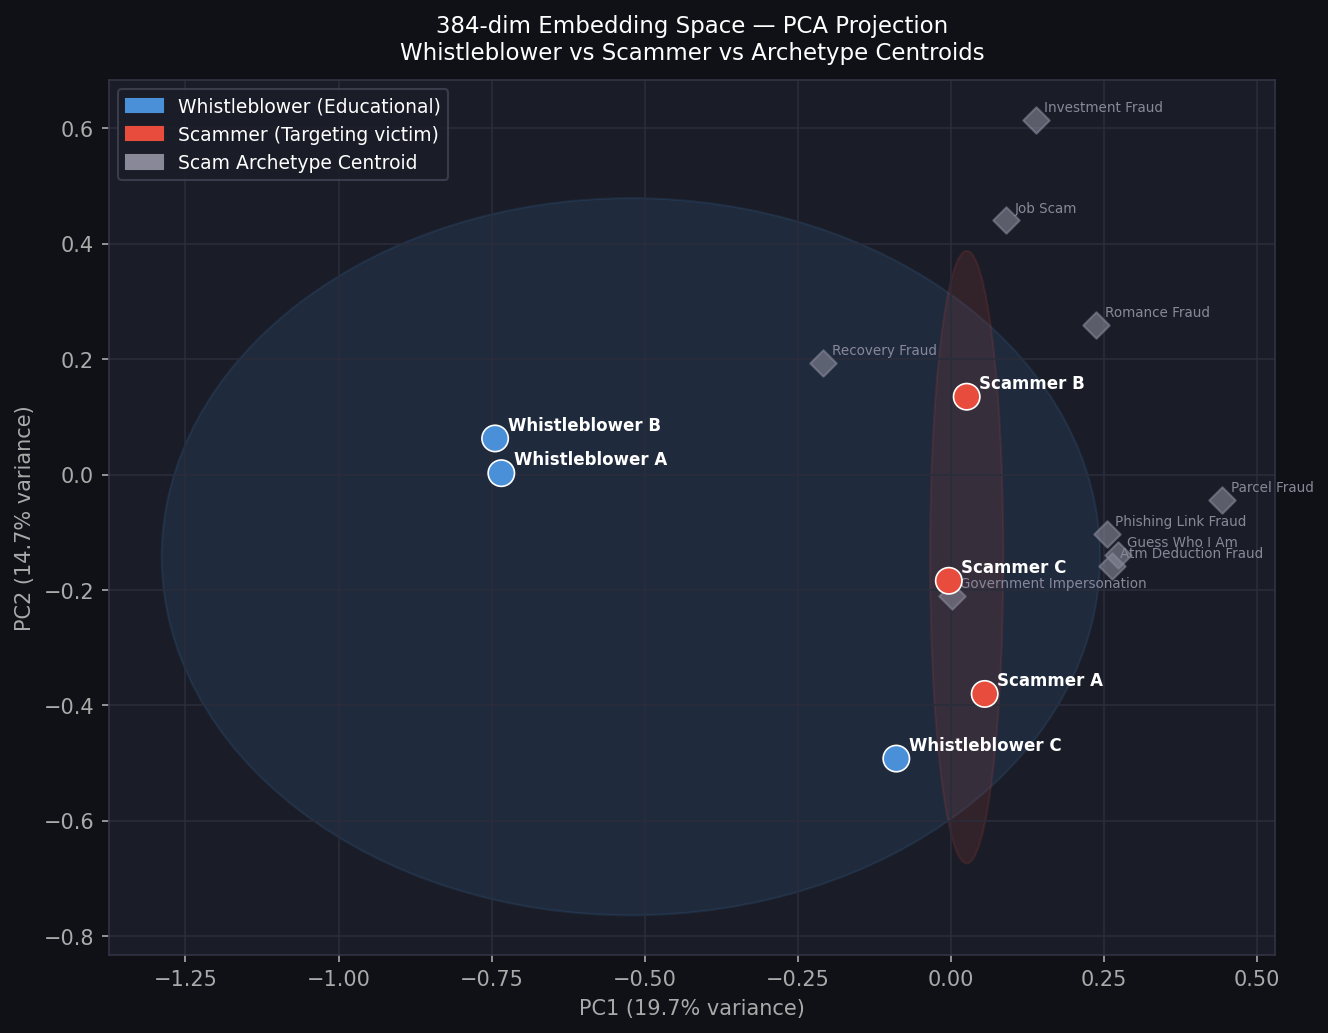
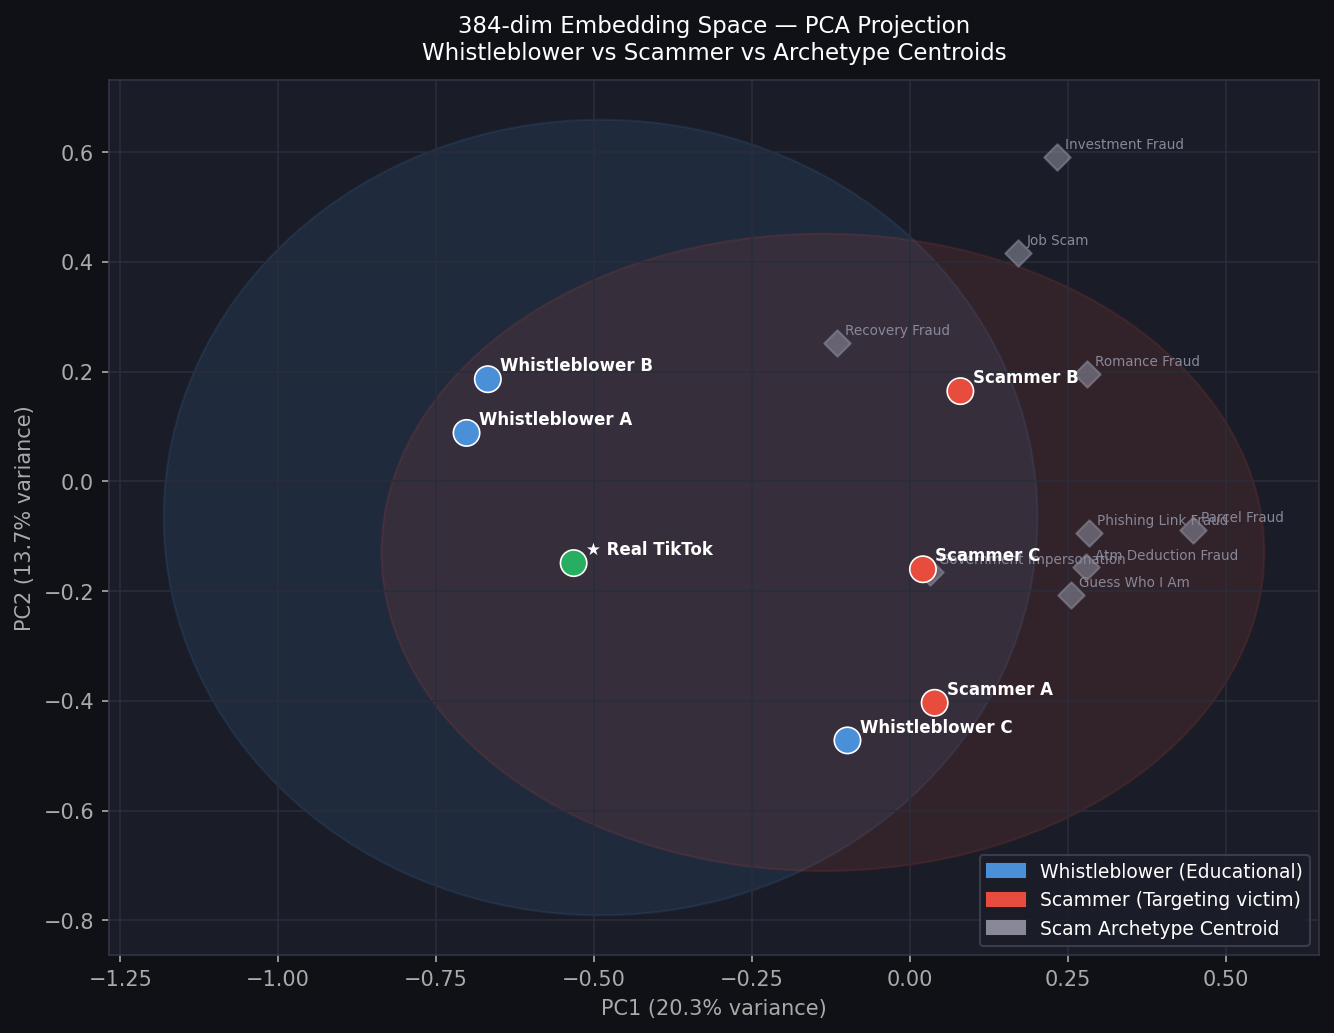
feat(demo): add real TikTok lawyer video as 4th whistleblower case
Downloaded and Whisper-transcribed 湯詠煊律師 (@stigmergy2023) TikTok
discussing romance fraud (交友詐騙). Score: 0.354 — well below 0.55
Safe threshold, falling clearly in the whistleblower cluster.

Changes:
- Add real transcript as 4th whistleblower entry (green, star-marked)
- Distinct green color (#27AE60) to differentiate from synthetic examples
- Updated legend in both bar chart and PCA scatter plot
- Save Whisper transcript for reproducibility

This is the strongest validation point for the demo: an unscripted,
real-world lawyer video is correctly classified as Safe (0.354),
with a 0.35+ gap from the nearest scammer (0.706).

diff --git a/src/demo.py b/src/demo.py
@@ -703,6 +703,14 @@ _DEMO_SAMPLES = [
     ("Whistleblower C\n(lawyer, action advice)",
      "收到這種電話，你第一個動作不是配合，是掛斷，然後打給你認識的人確認，不要一個人做決定。",
      "lawyer"),
+    # Real TikTok video — 湯詠煊律師 @stigmergy2023 discussing romance fraud case
+    # Whisper-transcribed, score=0.354 (well below 0.55 Safe threshold)
+    ("★ Real TikTok\n(湯律師 @stigmergy2023)",
+     "有一個年輕的小弟弟他就上網跟這個正妹聊天聊到後來就是每天都會互相早安晚安然後互噴老公老婆"
+     "他都沒有看過他就已經交了這麼個女朋友了後來有一天正妹就跟他說爸爸有生病什麼的然後就要他提供金融卡密碼"
+     "這個小弟弟他就變成人頭帳戶了這種案件我們見過的多了關鍵就是我們把這個小弟弟跟這個正妹整個聊天的對話"
+     "這些證據趕快保留下來提供給法官他就是真的被信任騙了他不是故意要幫詐騙集團的",
+     "lawyer"),
     # Scammers — first-person, explicit target, urgency + threat + action demand
     ("Scammer A\n(friend impersonation)",
      "媽，是我啦！我手機壞掉了借同學的電話，我現在在醫院要繳手術費，你先匯3萬到這個帳號給我，等下我還你。",
@@ -725,6 +733,7 @@ def run_embedding_demo() -> tuple[plt.Figure, plt.Figure, str]:
     embedder = _text_det._embedder
     LAWYER_COLOR   = "#4A90D9"
     SCAMMER_COLOR  = "#E74C3C"
+    REAL_COLOR     = "#27AE60"   # green — real TikTok video
     ARCHETYPE_COLOR = "#888899"
     BG = "#0F1117"
     AX_BG = "#1A1D27"
@@ -737,7 +746,12 @@ def run_embedding_demo() -> tuple[plt.Figure, plt.Figure, str]:
         labels.append(label)
         vecs.append(vec)
         sims.append(r.max_similarity)
-        colors.append(LAWYER_COLOR if group == "lawyer" else SCAMMER_COLOR)
+        if group == "scammer":
+            colors.append(SCAMMER_COLOR)
+        elif label.startswith("★"):
+            colors.append(REAL_COLOR)
+        else:
+            colors.append(LAWYER_COLOR)
         archetypes.append(r.closest_name_en)
         verdict = ("🚨 High-risk" if r.max_similarity >= 0.75
                    else "⚠ Suspicious" if r.max_similarity >= 0.55
@@ -792,6 +806,7 @@ def run_embedding_demo() -> tuple[plt.Figure, plt.Figure, str]:
     ax.grid(axis="x", color="#2A2D3A", zorder=0)
     ax.legend(handles=[
         mpatches.Patch(color=LAWYER_COLOR,  label="Whistleblower — Educational"),
+        mpatches.Patch(color=REAL_COLOR,    label="★ Real TikTok (Whisper transcribed)"),
         mpatches.Patch(color=SCAMMER_COLOR, label="Scammer — Targeting victim"),
     ], loc="lower right", facecolor=AX_BG, edgecolor="#444455", labelcolor="white", fontsize=9)
     plt.tight_layout()
@@ -838,9 +853,10 @@ def run_embedding_demo() -> tuple[plt.Figure, plt.Figure, str]:
         spine.set_edgecolor("#333344")
     ax2.grid(color="#2A2D3A", zorder=0)
     ax2.legend(handles=[
-        mpatches.Patch(color=LAWYER_COLOR,  label="Whistleblower (Educational)"),
-        mpatches.Patch(color=SCAMMER_COLOR, label="Scammer (Targeting victim)"),
-        mpatches.Patch(color=ARCHETYPE_COLOR, label="Scam Archetype Centroid"),
+        mpatches.Patch(color=LAWYER_COLOR,   label="Whistleblower (Educational)"),
+        mpatches.Patch(color=REAL_COLOR,     label="★ Real TikTok (Whisper transcribed)"),
+        mpatches.Patch(color=SCAMMER_COLOR,  label="Scammer (Targeting victim)"),
+        mpatches.Patch(color=ARCHETYPE_COLOR,label="Scam Archetype Centroid"),
     ], facecolor=AX_BG, edgecolor="#444455", labelcolor="white", fontsize=9)
     plt.tight_layout()
 

diff --git a/src/experiments/intent_boundary_experiment.py b/src/experiments/intent_boundary_experiment.py
@@ -37,6 +37,12 @@ SAMPLES = {
         "很多人被騙之後覺得自己很蠢，其實詐騙手法非常精密，不要怪自己，趕快報案保留證據才是重點。",
     "Whistleblower C\n(action advice)":
         "收到這種電話，你第一個動作不是配合，是掛斷，然後打給你認識的人確認，不要一個人做決定。",
+    # Real TikTok — 湯詠煊律師 @stigmergy2023, Whisper transcribed, score=0.354
+    "★ Real TikTok\n(湯律師 @stigmergy2023)":
+        "有一個年輕的小弟弟他就上網跟這個正妹聊天聊到後來就是每天都會互相早安晚安然後互噴老公老婆"
+        "他都沒有看過他就已經交了這麼個女朋友了後來有一天正妹就跟他說爸爸有生病什麼的然後就要他提供金融卡密碼"
+        "這個小弟弟他就變成人頭帳戶了這種案件我們見過的多了關鍵就是我們把這個小弟弟跟這個正妹整個聊天的對話"
+        "這些證據趕快保留下來提供給法官他就是真的被信任騙了他不是故意要幫詐騙集團的",
 
     # Scammers — first-person, explicit target, urgency + threat + action demand
     "Scammer A\n(friend impersonation)":
@@ -68,7 +74,8 @@ fig, ax = plt.subplots(figsize=(10, 5))
 fig.patch.set_facecolor("#0F1117")
 ax.set_facecolor("#1A1D27")
 
-colors = [LAWYER_COLOR] * 3 + [SCAMMER_COLOR] * 3
+REAL_COLOR = "#27AE60"   # green — real TikTok video
+colors = [LAWYER_COLOR] * 3 + [REAL_COLOR] + [SCAMMER_COLOR] * 3
 bars = ax.barh(range(N), max_sims, color=colors, height=0.55, zorder=3)
 
 # Threshold lines
@@ -95,8 +102,9 @@ for spine in ax.spines.values():
 ax.grid(axis="x", color="#2A2D3A", zorder=0)
 
 legend_patches = [
-    mpatches.Patch(color=LAWYER_COLOR, label="Lawyer — Educational (3rd-person, descriptive)"),
-    mpatches.Patch(color=SCAMMER_COLOR, label="Scammer — Targeting victim (2nd-person, imperative)"),
+    mpatches.Patch(color=LAWYER_COLOR,  label="Whistleblower — Educational"),
+    mpatches.Patch(color=REAL_COLOR,    label="★ Real TikTok (Whisper transcribed)"),
+    mpatches.Patch(color=SCAMMER_COLOR, label="Scammer — Targeting victim"),
 ]
 ax.legend(handles=legend_patches, loc="lower right",
           facecolor="#1A1D27", edgecolor="#444455", labelcolor="white", fontsize=9)
